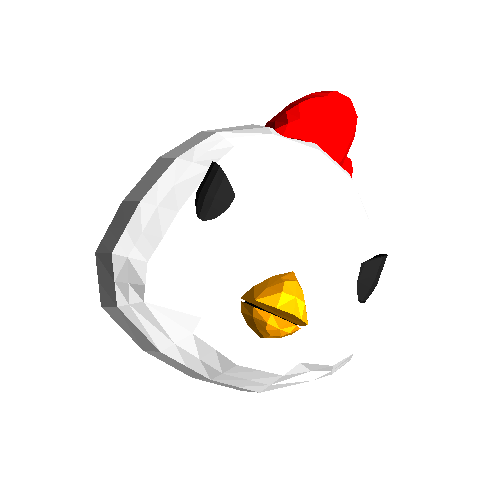
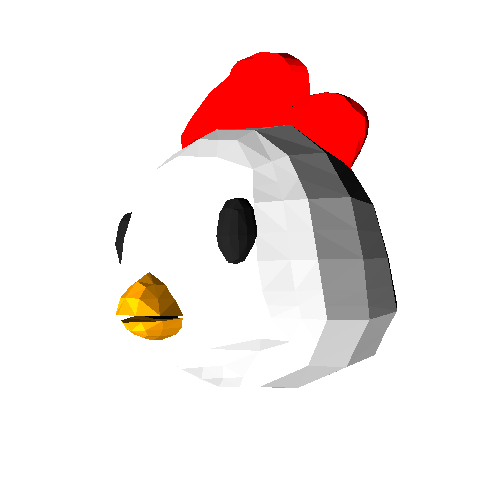
Umackicken mouth transformations

Changed region(s): [[0.18, 0.09, 0.81, 0.81]]

diff --git a/3d_emoji_mapping/ObjectReader.py b/3d_emoji_mapping/ObjectReader.py
@@ -15,11 +15,15 @@ class ObjectReader(object):
         self.materials = {}
         self.vts = []
         
+        self.left_eye = []
+        self.right_eye = []
+        
         self.mouth_up = []
         self.mouth_down = []
         
-        self.left_eye = []
-        self.right_eye = []
+        self.mouth_left = []
+        self.mouth_right = []
+        
         
         self.y_min_left = 10000
         self.y_max_left = -10000
@@ -30,7 +34,22 @@ class ObjectReader(object):
         self.y_max_right = -10000
         self.x_min_right = 10000
         self.x_max_right = -10000
-
+        
+        self.z_min_mouth_up = 10000
+        self.z_max_mouth_up = -10000
+        self.y_min_mouth_up = 10000
+        self.y_max_mouth_up = -10000
+        
+        self.z_min_mouth_down = 10000
+        self.z_max_mouth_down = -10000
+        self.y_min_mouth_down = 10000
+        self.y_max_mouth_down = -10000
+        
+        self.x_moy_mouth = 0
+        self.x_min_mouth = 10000
+        self.x_max_mouth = -10000
+        
+        self.eps = 0.05
 
         try:
             fileOBJ = open(file_name_obj)
@@ -123,7 +142,7 @@ class ObjectReader(object):
                 self.face_normals.append(n)
                 """
             
-            #self.get_mouth_vertices()
+            self.get_mouth_vertices()
             self.get_eyes()
 
         except IOError:
@@ -136,14 +155,63 @@ class ObjectReader(object):
             for vertex in self.faces[face]:
                 #self.mouth_up.append(self.vertices[vertex])
                 self.mouth_up.append(vertex)
-        self.mouth_up = sorted(self.mouth_up, key=lambda x: x[0])
+                
+                v = self.vertices[vertex]
+                if self.z_min_mouth_up > v[2]:
+                    self.z_min_mouth_up = v[2]
+                if self.z_max_mouth_up < v[2]:
+                    self.z_max_mouth_up = v[2]
+                    
+                if self.y_min_mouth_up > v[1]:
+                    self.y_min_mouth_up = v[1]
+                if self.y_max_mouth_up < v[1]:
+                    self.y_max_mouth_up = v[1]
+                
+                if self.x_min_mouth > v[0]:
+                    self.x_min_mouth = v[0]
+                if self.x_max_mouth < v[0]:
+                    self.x_max_mouth = v[0]
+        
+        #self.mouth_up = sorted(self.mouth_up, key=lambda x: x[0])
+        self.mouth_up = set(self.mouth_up)
+        
+        self.x_moy_mouth = (self.x_min_mouth + self.x_max_mouth) / 2
+        
+        for face in self.materials_faces["BeakUpSG"]:
+            for vertex in self.faces[face]:
+                v = self.vertices[vertex]
+                if (v[0] < (self.x_moy_mouth - self.eps)):
+                    self.mouth_left.append(vertex)
+                elif (v[0] > (self.x_moy_mouth + self.eps)):
+                    self.mouth_right.append(vertex)
+        
         
         for face in self.materials_faces["BeakDownSG"]:
             for vertex in self.faces[face]:
                 #self.mouth_down.append(self.vertices[vertex])
                 self.mouth_down.append(vertex)
-        self.mouth_down = sorted(self.mouth_down, key=lambda x: x[0])
+                
+                v = self.vertices[vertex]
+                if self.z_min_mouth_down > v[2]:
+                    self.z_min_mouth_down = v[2]
+                if self.z_max_mouth_down < v[2]:
+                    self.z_max_mouth_down = v[2]
+                    
+                if self.y_min_mouth_down > v[1]:
+                    self.y_min_mouth_down = v[1]
+                if self.y_max_mouth_down < v[1]:
+                    self.y_max_mouth_down = v[1]
+                
+                if (v[0] < (self.x_moy_mouth - self.eps)):
+                    self.mouth_left.append(vertex)
+                elif (v[0] > (self.x_moy_mouth + self.eps)):
+                    self.mouth_right.append(vertex)
         
+        #self.mouth_down = sorted(self.mouth_down, key=lambda x: x[0])
+        self.mouth_down = set(self.mouth_down)
+        
+        self.mouth_left = set(self.mouth_left)
+        self.mouth_right = set(self.mouth_right)
         
     def get_eyes(self):
         

diff --git a/3d_emoji_mapping/Umatch.py b/3d_emoji_mapping/Umatch.py
@@ -6,7 +6,7 @@ import dlib
 import cv2
 import os
 from math import sqrt, acos
-from numpy import *
+import numpy as np
 from PIL import Image
 import EmojiModifier
 
@@ -42,14 +42,31 @@ def rotation_head_y(shape):
 
 
 def rotation_head_z(shape):
-    v1 = array(shape[27]) - array(shape[8])
-    v1 = v1 / linalg.norm(v1)
-    v2 = array([0, -1])
-    angle = acos(dot(v1, v2))
-    angle = angle * 180 / pi
+    v1 = np.array(shape[27]) - np.array(shape[8])
+    v1 = v1 / np.linalg.norm(v1)
+    v2 = np.array([0, -1])
+    angle = acos(np.dot(v1, v2))
+    angle = angle * 180 / np.pi
     if shape[27][0] > shape[8][0]:
         angle = angle * (-1)
     return angle
+
+
+def dist_mouth_vertical(shape, rect):
+    den = abs(rect.tl_corner().y - rect.br_corner().y)
+    if den == 0:
+        den = 0.1
+    dist = dist_points(shape[51], shape[57]) / den
+    return dist
+
+
+def dist_mouth_horizontal(shape, rect):
+    den = abs(rect.tl_corner().x - rect.br_corner().x)
+    if den == 0:
+        den = 0.1
+    dist = dist_points(shape[48], shape[54]) / den
+    return dist
+
 
 """
 def replace_face(image, emoji, x, y, w, h):
@@ -84,7 +101,7 @@ def replace_face(image, emoji, x, y, w, h):
 
 if __name__ == "__main__":
     landmark_predictor = "shape_predictor_68_face_landmarks.dat"
-    image_path = "example_03.jpg"
+    image_path = "Major.jpg"
     folder = 'output'
 
     # Initialize face detector and facial landmark predictor
@@ -99,26 +116,51 @@ if __name__ == "__main__":
     # Detect faces
     rects = detector(gray, 1)
     # clone = image.copy()
+    
+    face_size = (500, 500)
+    
 
     # Loop over the face detections
     for (i, rect) in enumerate(rects):
+        
+        """
+        face_list = []
+        for row in range(rect.tl_corner().y, rect.tr_corner().y + 1):
+            for col in range(rect.tl_corner().x, rect.tr_corner().x + 1):
+                face_list.append((image[row][col][0], image[row][col][1], image[row][col][2]))
+        
+        face_rect_size = (rect.br_corner().x - rect.tl_corner().x, rect.br_corner().y - rect.tl_corner().y)
+        face_image = Image.new("RGB", face_rect_size)
+        
+        face_image.putdata(face_list)
+        face_image.resize(face_size)
+        
+        open_cv_image = np.array(face_image)
+        """
+        
         # Detect face points
         shape = predictor(gray, rect)
         shape = face_utils.shape_to_np(shape)
-
+        
         # Get rotation
         angleY = rotation_head_y(shape)
         angleZ = rotation_head_z(shape)
+        mouthX = dist_mouth_horizontal(shape, rect)
+        mouthY = dist_mouth_vertical(shape, rect)
 
         # Get 3D Emoji
-        emoji = EmojiModifier.EmojiModifier("Umatchicken_CombinedTriangulated", 0, 0, [0, angleY, angleZ])
+        emoji = EmojiModifier.EmojiModifier("Umatchicken_CombinedTriangulated", [mouthX, mouthY], 0, [0, angleY, angleZ])
         emoji.image.save("popo.png", 'png')
 
         # Place Emoji
-        w = int(((shape[8][1] - shape[20][1]) * 2) * 1.15)
+        """w = int(((shape[8][1] - shape[20][1]) * 2) * 1.15)
         h = w
         x = int(shape[27][0] - w / 2)
-        y = int(shape[27][1] - h / 2)
+        y = int(shape[27][1] - h / 2)"""
+        w = abs(shape[8][1] - shape[19][1]) * 2
+        h = w
+        x = shape[27][0] - abs(shape[8][1] - shape[19][1])
+        y = shape[27][1] - abs(shape[8][1] - shape[19][1])
 
         #image1 = replace_face(image, "popo.png", x, y, w, h)
 

diff --git a/3d_emoji_mapping/EmojiModifier.py b/3d_emoji_mapping/EmojiModifier.py
@@ -13,6 +13,11 @@ class EmojiModifier(object):
     def __init__(self, filename, mouth, eyes, rotations):
 
         self.image = 0
+        self.min_mouth_x = 0.17
+        self.max_mouth_x = 0.46
+        self.max_move_mouth_x = 0.18
+        self.min_mouth_y = 0.12
+        self.max_mouth_y = 0.40
 
         emoji = ObjectReader.ObjectReader("3d_object/" + filename + ".obj", "3d_object/" + filename + ".mtl")
 
@@ -39,6 +44,9 @@ class EmojiModifier(object):
         self.init_open_gl(display, object_pos, rotations)
 
         self.refresh_open_gl()
+        
+        self.open_mouth_x(filename, emoji, mouth[0])
+        self.open_mouth_y(filename, emoji, mouth[1])
         
         #self.open_mouth(emoji, 1)
         #self.set_angry(emoji)
@@ -79,6 +87,7 @@ class EmojiModifier(object):
         gluPerspective(45, (display[0] / display[1]), 0.1, 50.0)
         glTranslatef(object_pos[0], object_pos[1], object_pos[2])
 
+        glRotate(rotations[0], 1, 0, 0)
         glRotate(rotations[1], 0, 1, 0)
         glRotate(rotations[2], 0, 0, 1)
 
@@ -103,11 +112,6 @@ class EmojiModifier(object):
                     direction = max(np.dot(normal, light), 0)
                     output_color = (output_color[0] + (intensity * color * direction)[0], output_color[1] + (intensity * color * direction)[1], output_color[2] + (intensity * color * direction)[2])
                 
-                """
-                if output_color == (0, 0, 0):
-                    print(normal)
-                    output_color = (0, 1, 0)
-                """
                 glColor3fv(output_color)
                 
                 #glColor3fv(color)
@@ -123,15 +127,33 @@ class EmojiModifier(object):
         image = image.transpose(Image.FLIP_TOP_BOTTOM)
         return image
     
-    
+    """
     def open_mouth(self, emoji, open_y):
         for vertex in emoji.mouth_up:
             emoji.vertices[vertex] = (emoji.vertices[vertex][0], emoji.vertices[vertex][1] + open_y, emoji.vertices[vertex][2])
         for vertex in emoji.mouth_down:
             emoji.vertices[vertex] = (emoji.vertices[vertex][0], emoji.vertices[vertex][1] - open_y, emoji.vertices[vertex][2])
+    """
     
     def get_affine_image(self, a, b, x):
         return (a * x + b)
+    
+    def open_mouth_x(self, filename, emoji, mouth_x):
+        #move = 0.18
+        move = abs(mouth_x - self.min_mouth_x) * (self.max_move_mouth_x) / abs(self.max_mouth_x - self.min_mouth_x)
+        for vertex in emoji.mouth_left:
+            v = emoji.vertices[vertex]
+            emoji.vertices[vertex] = (v[0] - move, v[1], v[2])
+        for vertex in emoji.mouth_right:
+            v = emoji.vertices[vertex]
+            emoji.vertices[vertex] = (v[0] + move, v[1], v[2])
+    
+    def open_mouth_y(self, filename, emoji, mouth_y):
+        max_down = abs(mouth_y - self.min_mouth_y) * abs(emoji.y_max_mouth_down - emoji.y_min_mouth_down) / abs(self.max_mouth_y - self.min_mouth_y)
+        for vertex in emoji.mouth_down:
+            v = emoji.vertices[vertex]
+            down = abs(v[2] - emoji.z_min_mouth_down) / abs(emoji.z_max_mouth_down - emoji.z_min_mouth_down)
+            emoji.vertices[vertex] = (v[0], v[1] - max_down * down, v[2])
     
     def set_angry(self, emoji):
         self.set_angry_eye_left(emoji)

diff --git a/predict_emotions/emoji_predict.py b/predict_emotions/emoji_predict.py
@@ -45,14 +45,15 @@ def face_detection(rects, loadmod, image):
         emotion = loadmod.predict([features])
         print(emotion)
         #emoji = cv2.imread("emojis/" + emotion[0] + ".png")
-        #emoji = cv2.imread("emojis/test.png")
+        emoji = cv2.imread("emojis/popo.png")
         
-        #taille = abs(shape[9][1] - shape[20][1]) * 2
+        taille = abs(shape[9][1] - shape[20][1]) * 2
         
-        #posX = shape[28][0] - abs(shape[9][1] - shape[20][1])
-        #posY = shape[28][1] - abs(shape[9][1] - shape[20][1])
+        posX = shape[28][0] - abs(shape[9][1] - shape[20][1])
+        posY = shape[28][1] - abs(shape[9][1] - shape[20][1])
         
-        #place_emoji(image, emoji, posX, posY, taille)
+        
+        place_emoji(image, emoji, posX, posY, taille)
 
 def dist_points(p1, p2):
     dist = sqrt(pow(p1[0] - p2[0], 2) + pow(p1[1] - p2[1], 2))
@@ -189,6 +190,11 @@ def place_emoji(image, emoji, posX, posY, taille):
     tmp2image = cv2.resize(tmp2image, (taille, taille))
     rows, cols, channels = tmp2image.shape
     
+    print(posX)
+    print(posY)
+    print(rows)
+    print(cols)
+    
     ROI = image[posY:rows + posY, posX:cols + posX]
     
     img2gray = cv2.cvtColor(tmp2image, cv2.COLOR_RGB2GRAY)
@@ -213,7 +219,7 @@ if __name__ == "__main__":
 
     start = time.time()
     # load the input image, resize it, and convert it to grayscale
-    image = cv2.imread("images/example_03.jpg")
+    image = cv2.imread("images/H.jpg")
     image = imutils.resize(image, width=500)
     gray = cv2.cvtColor(image, cv2.COLOR_BGR2GRAY)
     
